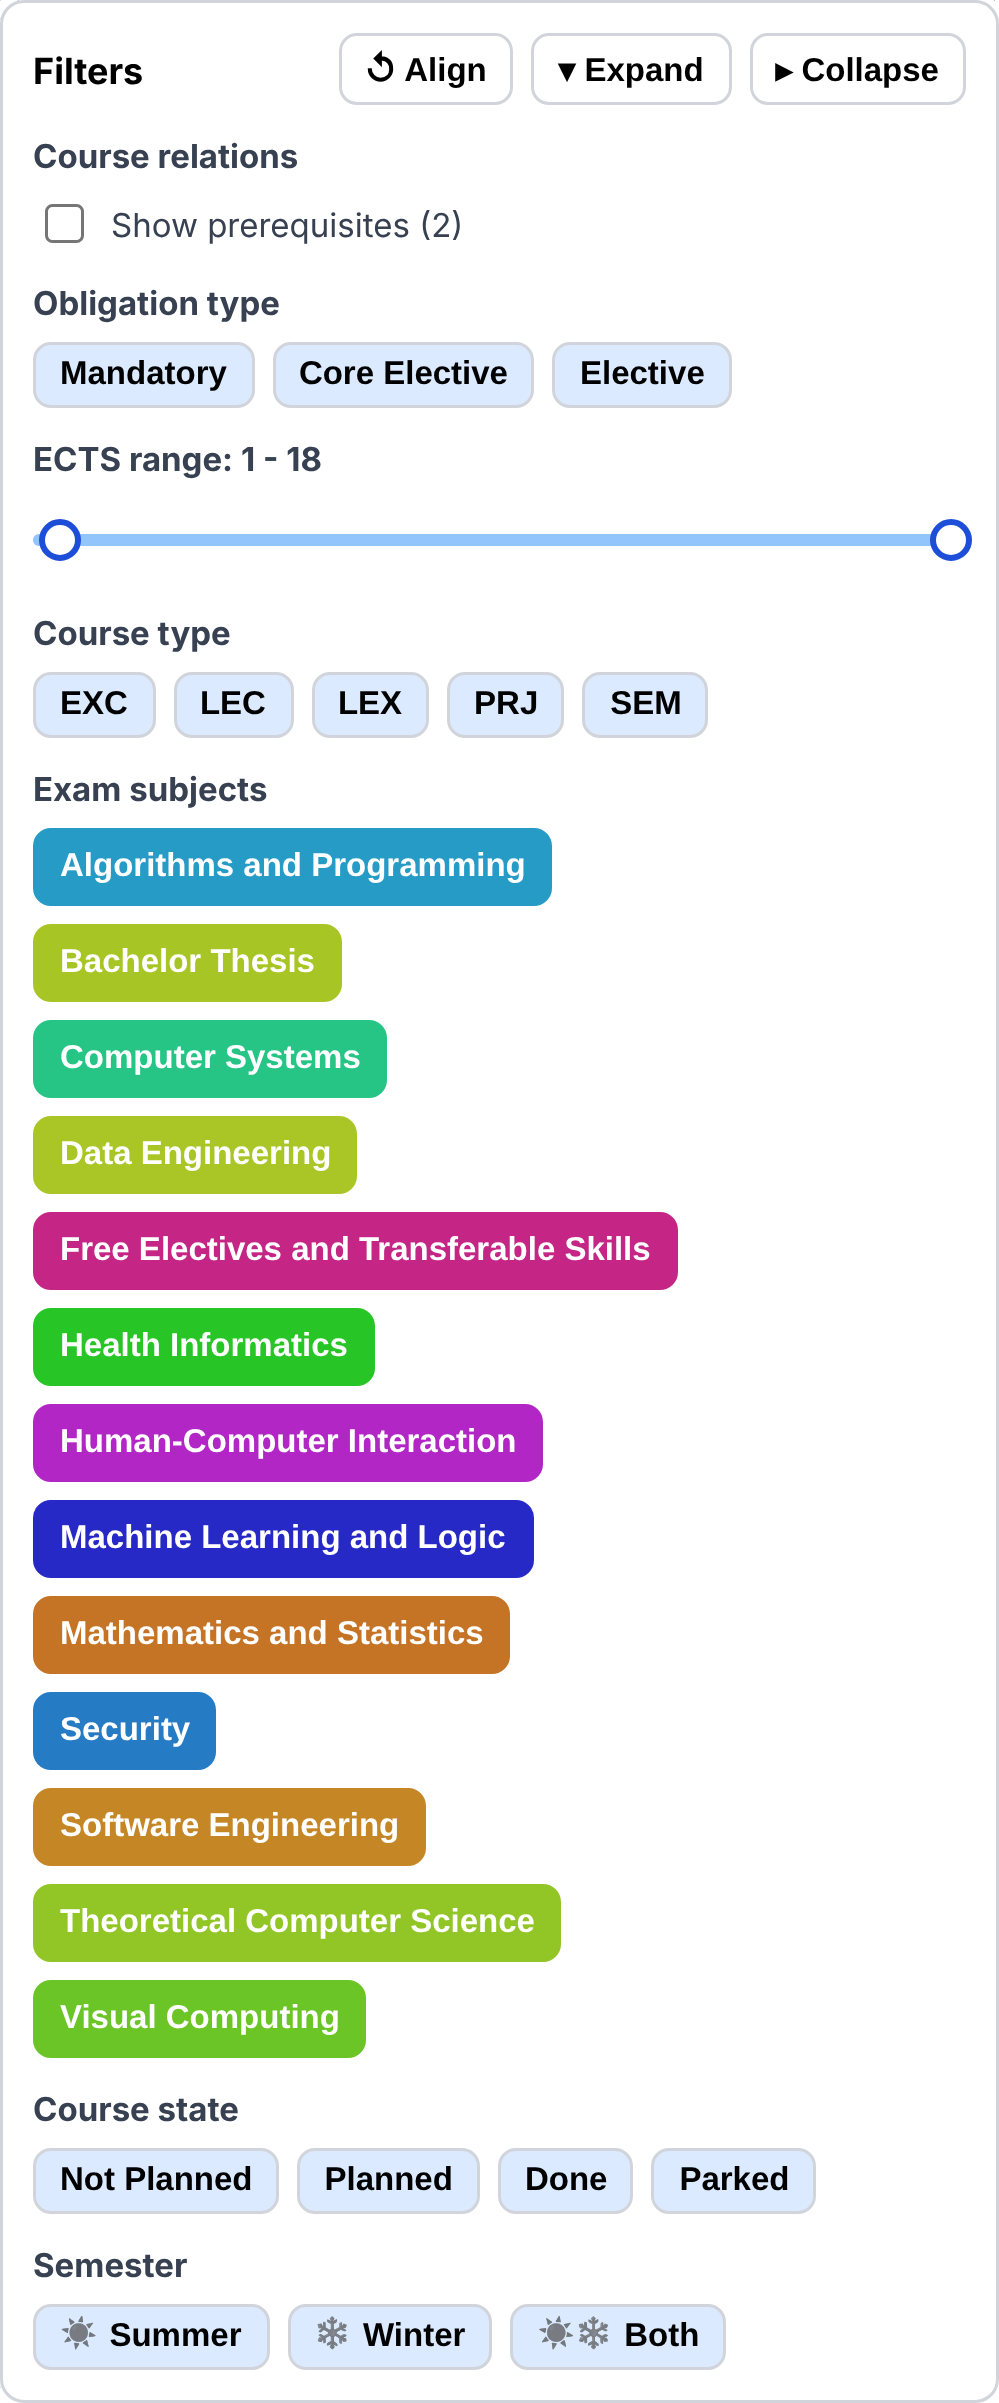
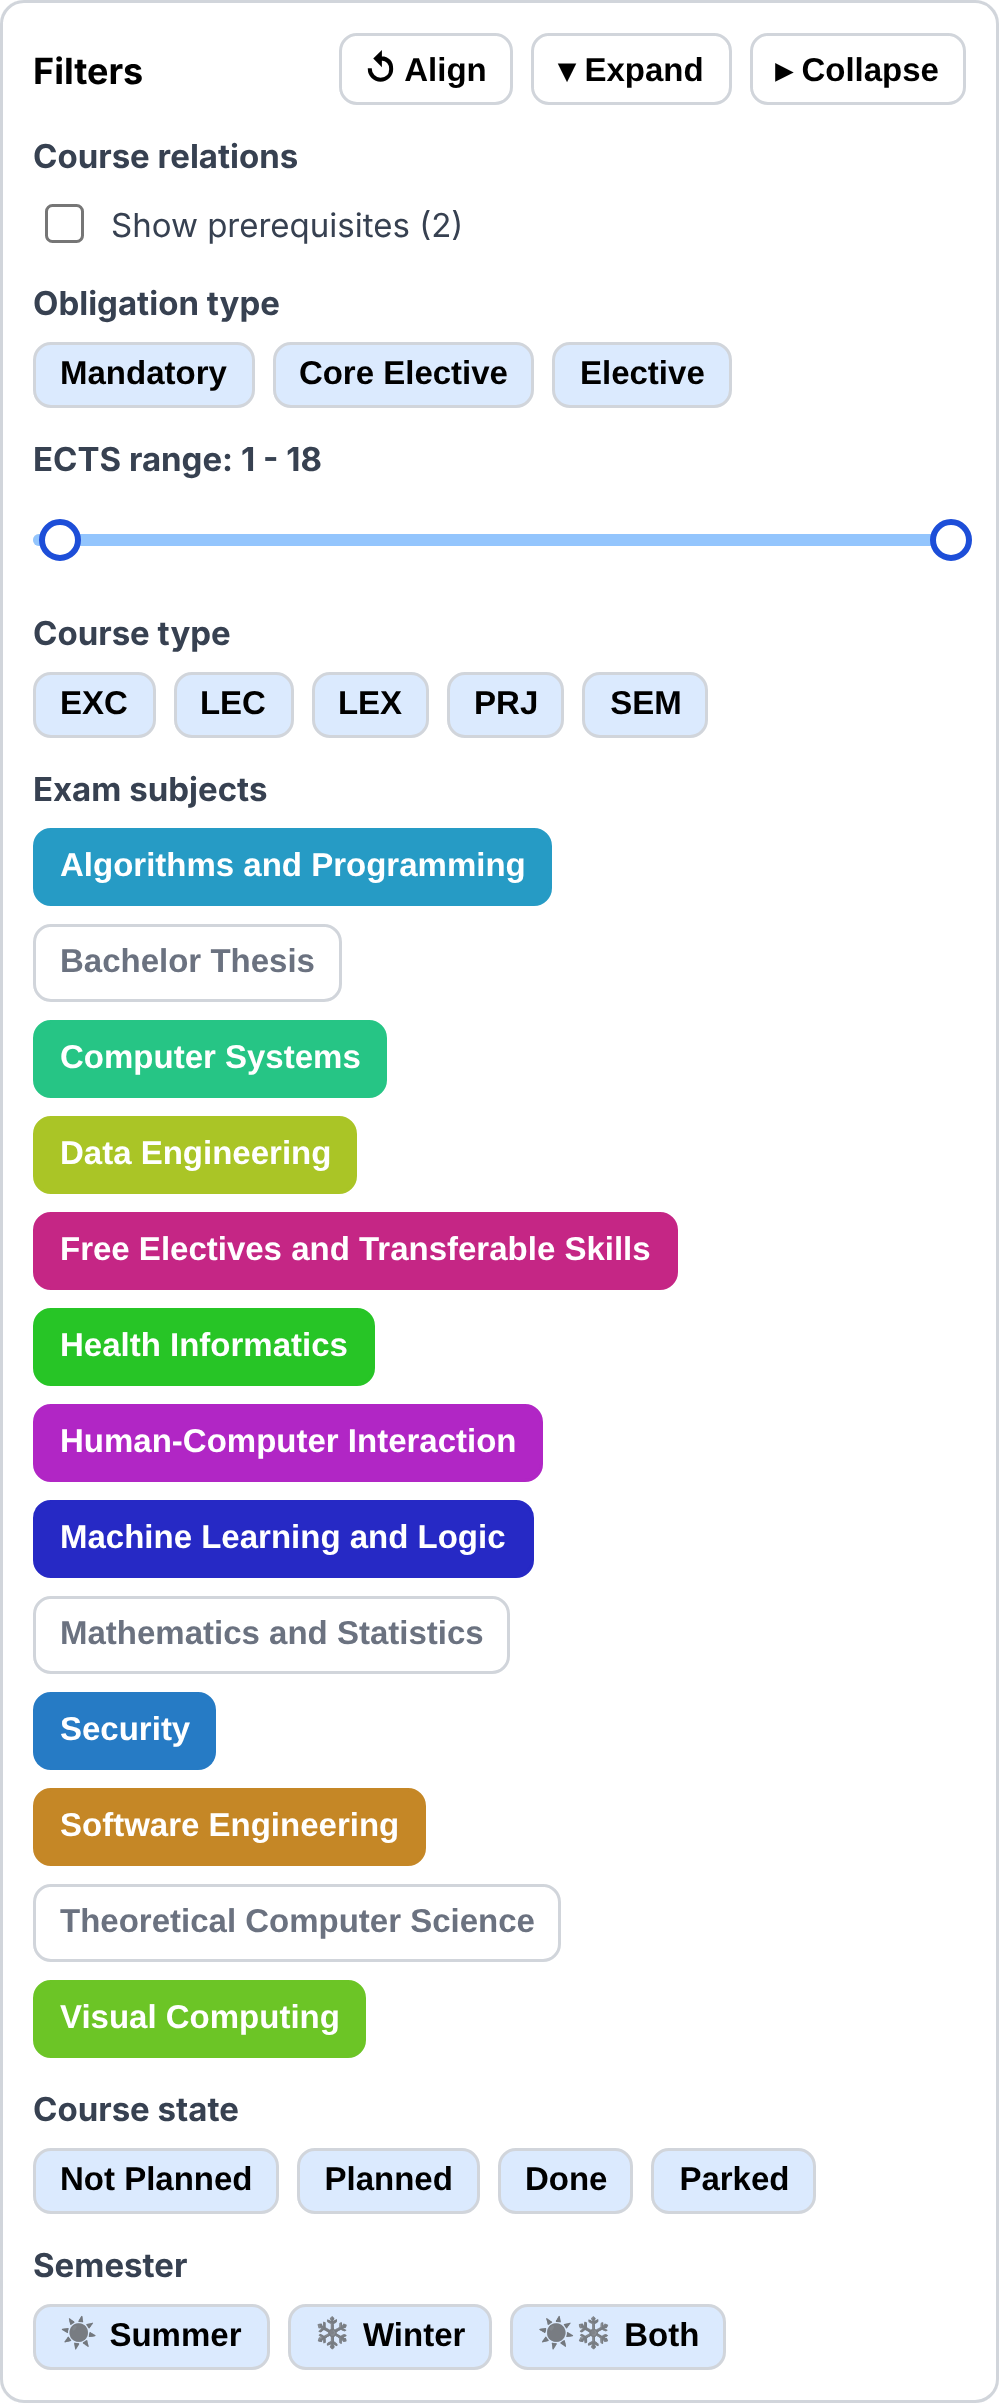
Figure B: leave three exam subjects out of the graph, chips switched off
Claude-Session: https://claude.ai/code/session_019VCq3ESBZwQNJ8zcqfusNr

Changed region(s): [[0.031, 0.7803, 0.5586, 0.8427], [0.031, 0.6554, 0.5275, 0.7179], [0.031, 0.3745, 0.3413, 0.437]]

diff --git a/paper-figures/README.md b/paper-figures/README.md
@@ -30,24 +30,27 @@ All PNG, white background, rendered by Chromium (Playwright) with
 | Image | Pixels (w × h) |
 |---|---|
 | `table_view.png` | 3429 × 1815 |
-| `shell_graph_view_crop.png` | 3675 × 3099 |
+| `shell_graph_view_crop.png` | 3645 × 3099 |
 | `panel_filters.png` | 999 × 2403 |
-| `panel_graph.png` | 1275 × 3051 |
+| `panel_graph.png` | 1245 × 3099 |
 | `panel_dashboard.png` | 1329 × 3099 |
 
 Figure A: viewport 1600 × 1000 CSS px, sidebar hidden, board at React Flow's
 minimum zoom (0.5), cropped to the Parking Stage and lanes 1–5 down to the
 lowest card (the plan has seven semesters; 6–7 are left out of the crop so
-the cards stay legible at column width). Figure B: viewport 1600 × 1320 CSS px (taller so the Dashboard
-fits without scrolling), Graph View with "Algorithms and Programming" and
+the cards stay legible at column width). Figure B: viewport 1600 × about 1320 CSS px (tall enough for the
+Dashboard to fit without scrolling), Graph View with "Algorithms and Programming" and
 "Software Engineering" expanded (plus the two-course module "Introduction to
 Programming", so all four levels show), fitted to view. The three panels are
-cropped to their own content and composed top-aligned. The tree crop is
-cut at the Dashboard's height so both end in line; the four collapsed subjects
-at the bottom of the tree (Security, Mathematics and Statistics, Bachelor
-Thesis, Theoretical Computer Science) fall below the cut. The subject filter
-was not used for this because any active filter makes the application expand
-every matching subject. The panels are composed top-aligned with a 36 px (12 CSS px)
+cropped to their own content and composed top-aligned. Three exam subjects are left out of the tree (Mathematics and Statistics,
+Bachelor Thesis, Theoretical Computer Science) and shown as switched off in the
+filter panel. **Figure B is therefore not a single unedited state:** switching
+these subjects off in the application makes it expand every remaining subject,
+so the graph is captured with the two subjects open and the three subject nodes
+and their edges from the root hidden in the rendered page (CSS), and the three
+chips are switched off afterwards for the filter-panel crop. The viewport
+height (starting from 1320 CSS px) is adjusted so the fitted tree ends level
+with the Dashboard. The panels are composed top-aligned with a 36 px (12 CSS px)
 gap. The Dashboard crop ends below *Warnings*. Scrollbars and the text caret
 are hidden by an injected stylesheet. The application's page grey `#f9fafb`
 is mapped to white in all crops. The pointer is parked outside the crops, so
